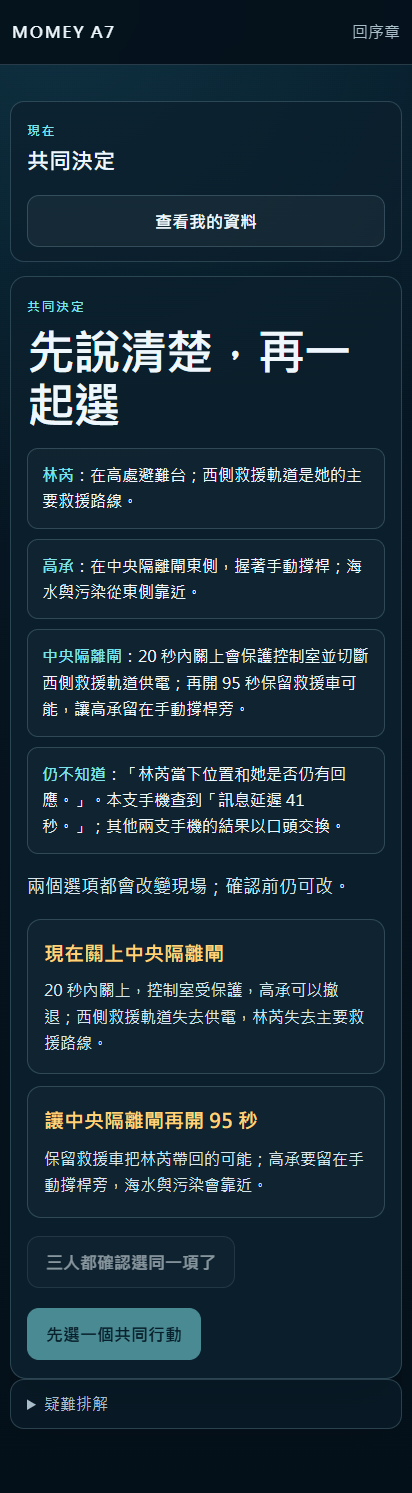
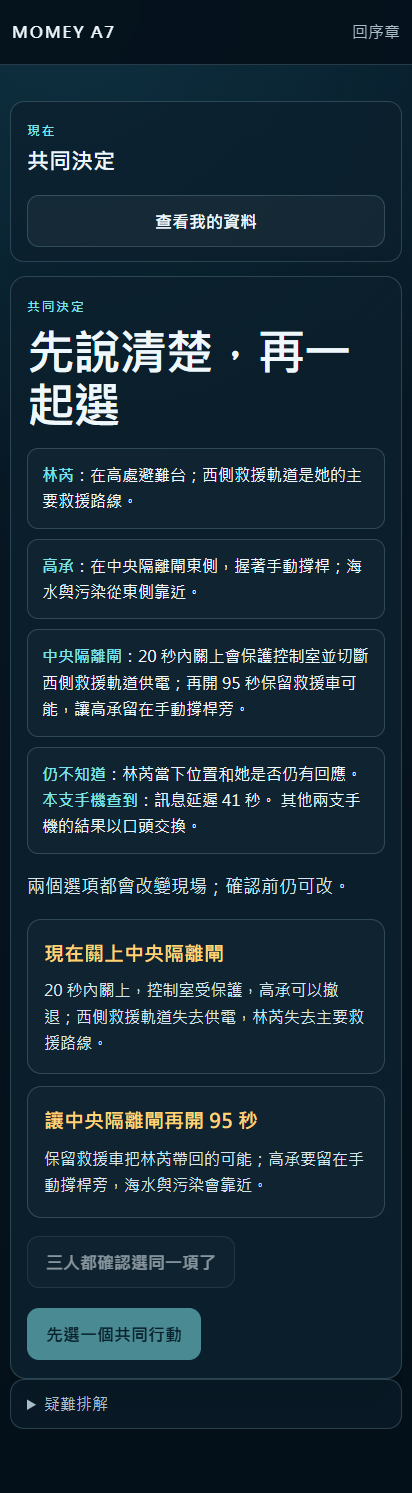
fix: polish A7 decision summary

Changed region(s): [[0.0874, 0.493, 0.8738, 0.5546]]

diff --git a/playable-a7/assets/app.js b/playable-a7/assets/app.js
@@ -348,11 +348,11 @@
 
   function decisionSummary(local) {
     var result = resultParts(local);
-    return "<div class=\"decision-summary\"><p><strong>林芮</strong>：在高處避難台；西側救援軌道是她的主要救援路線。</p><p><strong>高承</strong>：在中央隔離閘東側，握著手動撐桿；海水與污染從東側靠近。</p><p><strong>中央隔離閘</strong>：20 秒內關上會保護控制室並切斷西側救援軌道供電；再開 95 秒保留救援車可能，讓高承留在手動撐桿旁。</p><p><strong>仍不知道</strong>：「" +
+    return "<div class=\"decision-summary\"><p><strong>林芮</strong>：在高處避難台；西側救援軌道是她的主要救援路線。</p><p><strong>高承</strong>：在中央隔離閘東側，握著手動撐桿；海水與污染從東側靠近。</p><p><strong>中央隔離閘</strong>：20 秒內關上會保護控制室並切斷西側救援軌道供電；再開 95 秒保留救援車可能，讓高承留在手動撐桿旁。</p><p><strong>仍不知道</strong>：" +
       escapeHtml(result.unknown) +
-      "」。本支手機查到「" +
+      " <strong>本支手機查到</strong>：" +
       escapeHtml(result.found) +
-      "」；其他兩支手機的結果以口頭交換。</p></div>";
+      " 其他兩支手機的結果以口頭交換。</p></div>";
   }
 
   function decisionStage(local) {
